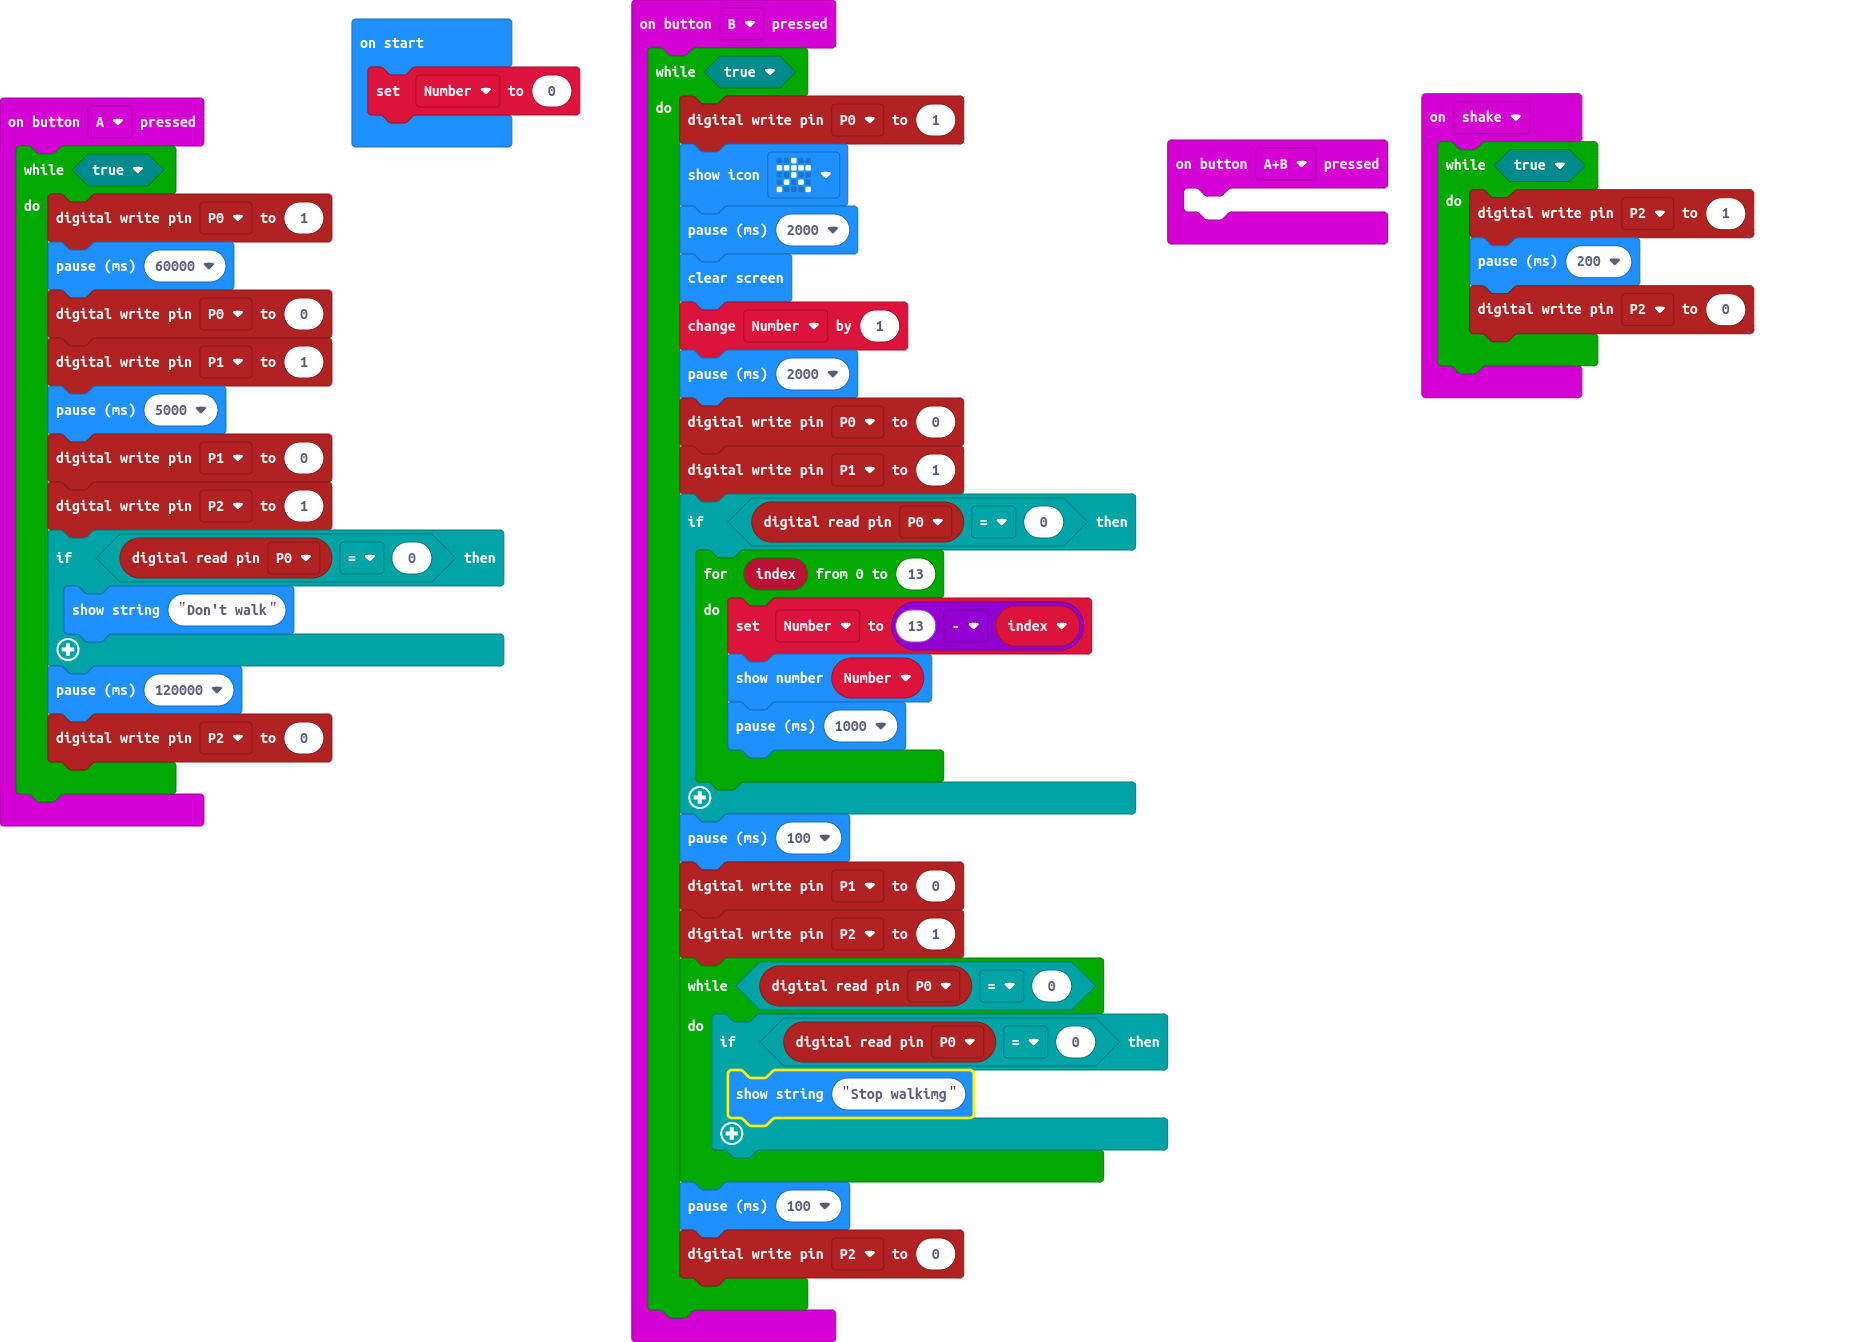
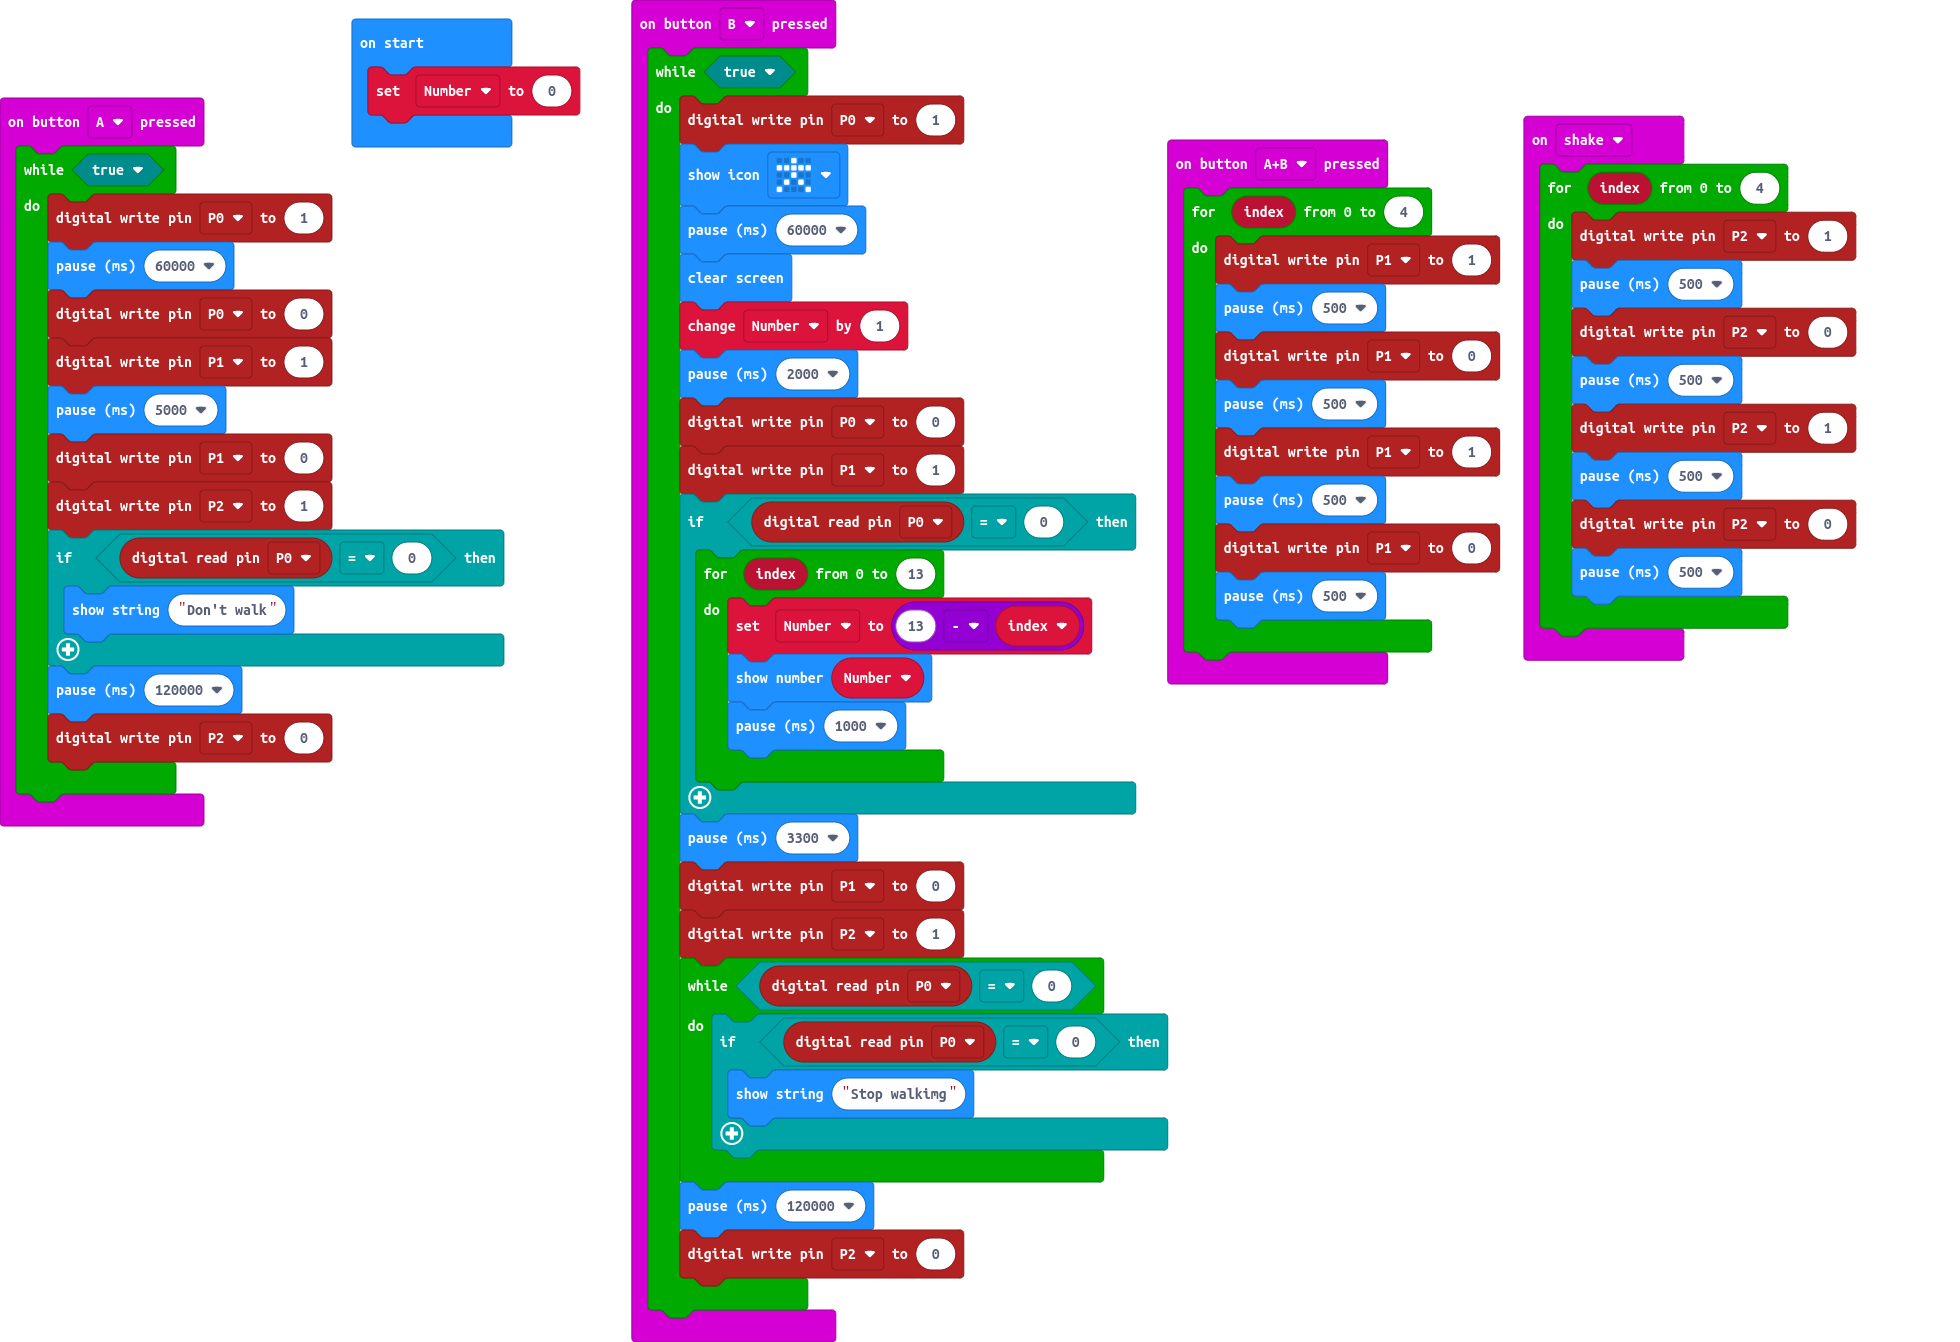
Update main.blocks, main.ts

Changed region(s): [[0.0, 0.0, 0.9677, 1.0], [0.5619, 0.5805, 0.6243, 0.611], [0.0936, 0.5805, 0.1249, 0.611]]

diff --git a/main.ts b/main.ts
@@ -15,13 +15,22 @@ input.onButtonPressed(Button.A, function () {
     }
 })
 input.onButtonPressed(Button.AB, function () {
-	
+    for (let index = 0; index <= 4; index++) {
+        pins.digitalWritePin(DigitalPin.P1, 1)
+        basic.pause(500)
+        pins.digitalWritePin(DigitalPin.P1, 0)
+        basic.pause(500)
+        pins.digitalWritePin(DigitalPin.P1, 1)
+        basic.pause(500)
+        pins.digitalWritePin(DigitalPin.P1, 0)
+        basic.pause(500)
+    }
 })
 input.onButtonPressed(Button.B, function () {
     while (true) {
         pins.digitalWritePin(DigitalPin.P0, 1)
         basic.showIcon(IconNames.StickFigure)
-        basic.pause(2000)
+        basic.pause(60000)
         basic.clearScreen()
         Number2 += 1
         basic.pause(2000)
@@ -34,7 +43,7 @@ input.onButtonPressed(Button.B, function () {
                 basic.pause(1000)
             }
         }
-        basic.pause(100)
+        basic.pause(3300)
         pins.digitalWritePin(DigitalPin.P1, 0)
         pins.digitalWritePin(DigitalPin.P2, 1)
         while (pins.digitalReadPin(DigitalPin.P0) == 0) {
@@ -42,15 +51,20 @@ input.onButtonPressed(Button.B, function () {
                 basic.showString("Stop walkimg")
             }
         }
-        basic.pause(100)
+        basic.pause(120000)
         pins.digitalWritePin(DigitalPin.P2, 0)
     }
 })
 input.onGesture(Gesture.Shake, function () {
-    while (true) {
+    for (let index = 0; index <= 4; index++) {
         pins.digitalWritePin(DigitalPin.P2, 1)
-        basic.pause(200)
+        basic.pause(500)
         pins.digitalWritePin(DigitalPin.P2, 0)
+        basic.pause(500)
+        pins.digitalWritePin(DigitalPin.P2, 1)
+        basic.pause(500)
+        pins.digitalWritePin(DigitalPin.P2, 0)
+        basic.pause(500)
     }
 })
 let Number2 = 0
